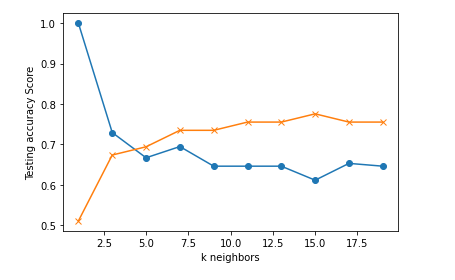
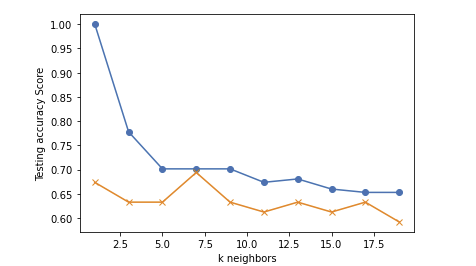
Deleted rough draft of Knn & finalized KNN & SVM notebook

diff --git a/index.html b/index.html
@@ -3910,7 +3910,17 @@
                 <br>
                 <img src="static\img\KNNClassification.png" width="50%">
                 <p>
-                    K Nearest Neighbor Analysis
+                    Per the KNN model, we have an accuracy of 63% of classifying flag colors, shapes, images, and text to predict the country's religion. K = 9 was choosen as, per the 
+                    graph, 9 is when the score starts to stabilize and choosing an odd number confirms there are no ties between classes. Per the classification report, classifying 
+                    the religion Christian was secure as the precision method (percentage of the predictions were correct) is at 63%, recall method (percentage of the positive cases 
+                    classified correctly) is at 96%, and f1-score method (percentage of positive predictions were correct) is at 76% but that has to do with the support method (sample size) 
+                    of 27 vs the other religion in single digits.
+                </p>
+                <p>
+                    In conclusion, per the support method of the religion data points being imbalanced, the macro average confirmed our overall results. Although the KNN method has an 
+                    accuracy of 63% in classifying the religion, due to our imbalance data set, our overall precision is 27%, our overall recall is 30% and overall f1-score is 28% with a 
+                    sample size of 49. In order to improve the overall result, we will need a larger data set or narrowing the religion to 3-4. The percentage is fairly low overall; however, 
+                    I can conclude that the KNN model can classify countries with Christianity as their religion efficiently based on the attributes of the country’s flag.
                 </p>
                 <br>
             </div>
@@ -3922,14 +3932,22 @@
                 <h3>Support Vector Machines</h3>
                 <br>
                 <p>
-                    Support Vector Machines is a supervised Machine Learning algorithm used to find a hyperplane in a dimensional space that precisely classifies the data points.
-                    The objective is to find a plane that has the maximum margin, the max distance between data points of both new data and available data.
+                    Support Vector Machines is a supervised Machine Learning algorithm using a linear model for classification problems. The algorithm is use to create a line or a hyperplane 
+                    which separates the data into classes and as a result classifies the data points.
                 </p>
                 <br>
                 <img src="static\img\SVMClassification.png" width="50%">
                 <br>
                 <p>
-                    Support Vector Machines Analysis Data
+                    Per the Support Vector Machines model, we have an accuracy of 59% of classifying flag colors, shapes, images, and text to predict the country's religion. Per the classification 
+                    report, classifying the religion Christian was secure as the precision method (percentage of the predictions were correct) is at 65%, recall method (percentage of the positive 
+                    cases classified correctly) is at 89%, and f1-score method (percentage of positive predictions were correct) is at 75% but that has to do with the support method (sample size) 
+                    of 27 vs the other religion in single digits.
+                </p>
+                <p>
+                    In conclusion, per the support method of the religion data points being imbalanced, the macro average confirmed our overall results. Although the Support Vector Machines method 
+                    has an accuracy of 59% in classifying the religion, due to our imbalance data set, our overall precision is 31%, our overall recall is 29% and overall f1-score is 28% with a 
+                    sample size of 49.
                 </p>
                 <br>
             </div>
